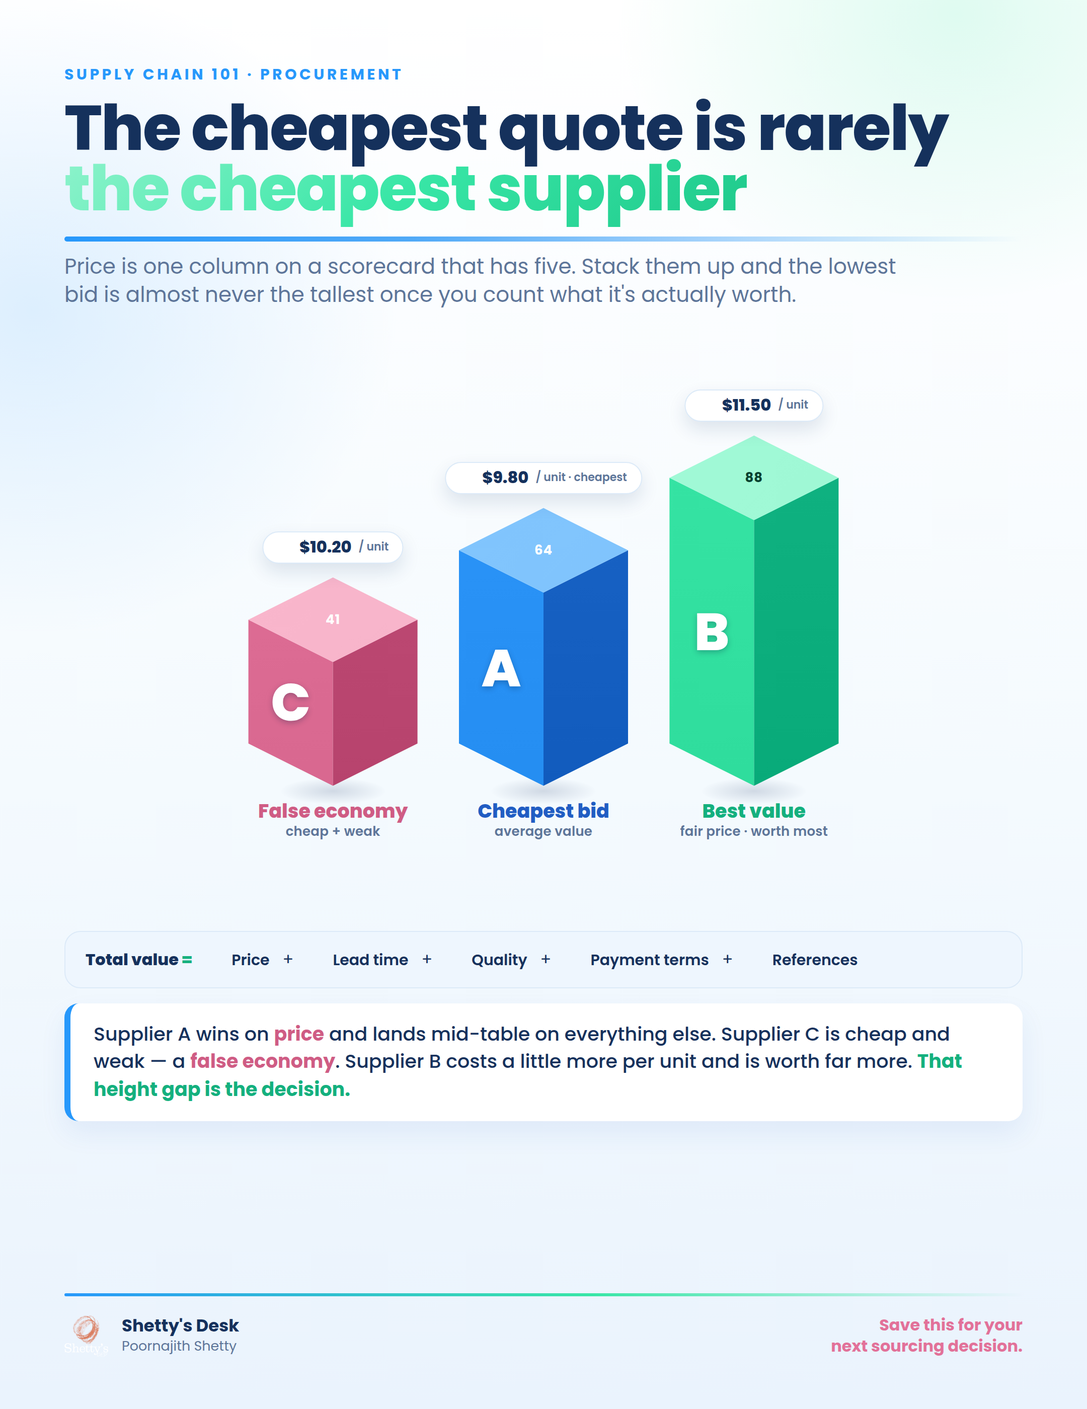
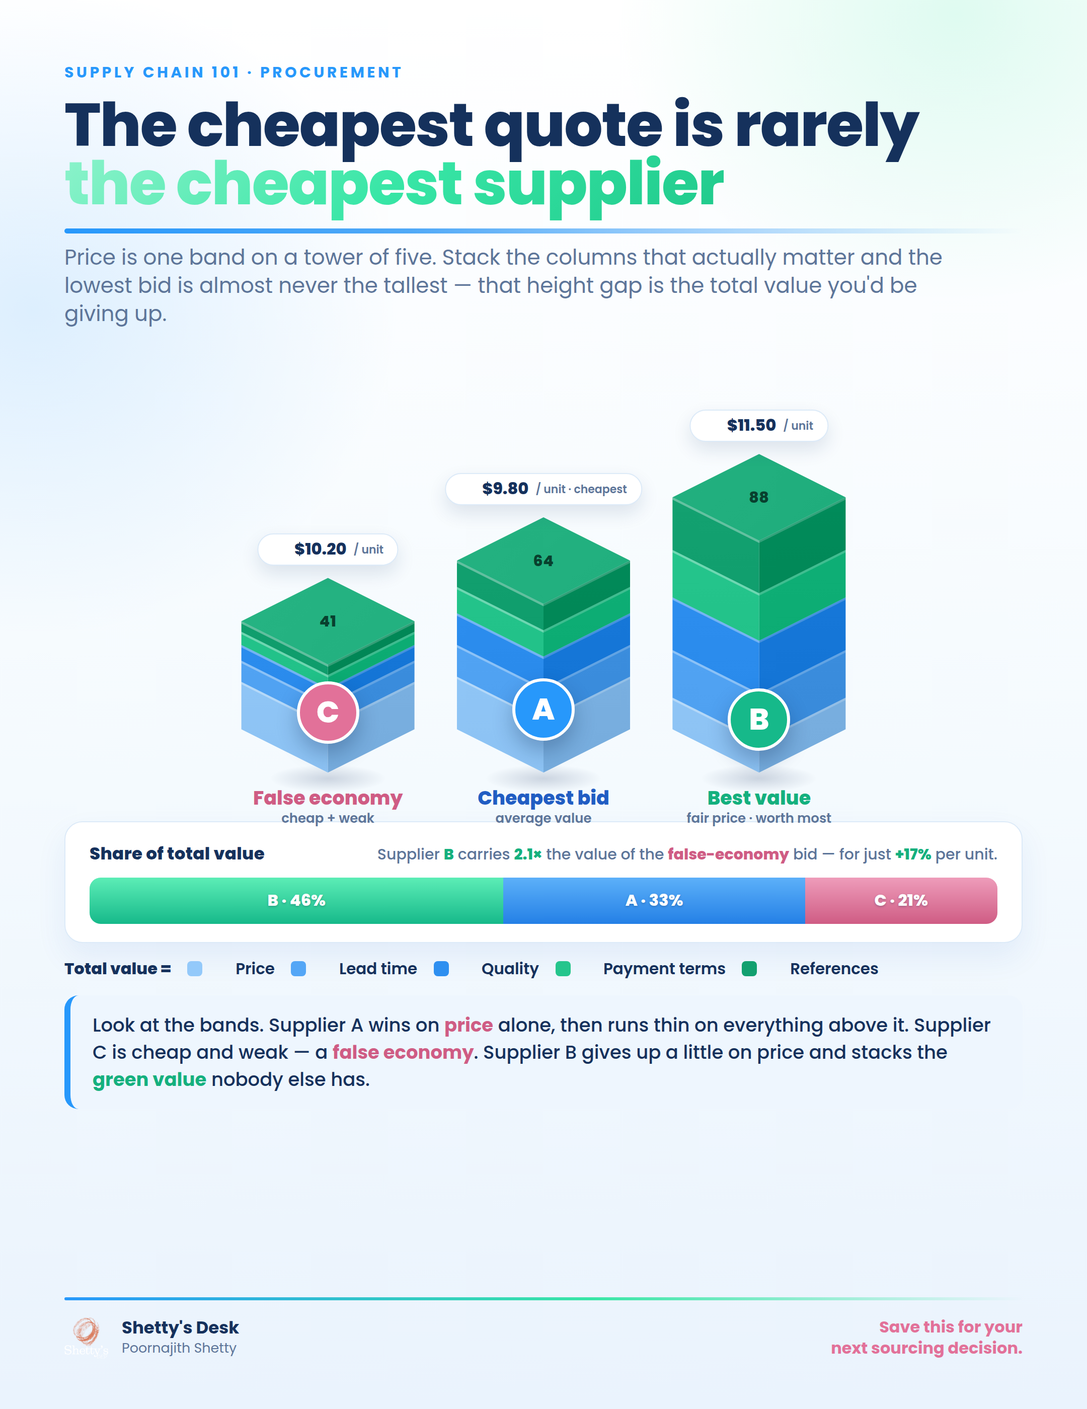
Enrich supplier-quote still: stacked-criterion towers + value-share bar
Push the supplier-quote infographic further on density, 3D and icons,
using elements from the 200-pattern benchmark intelligence:

- Towers become 3D STACKED-criterion towers (benchmark #43): each
  supplier is five stacked bands (Price/Lead time/Quality/Payment
  terms/References) on a blue->green ramp (blue = price/speed,
  green = the quality/relationship value price-shoppers ignore).
  Height still = total value. Hairline light-catch separators make
  the five bands read crisply.
- New ratio element: a "Share of total value" 100% stacked bar
  (benchmark #44, part-to-whole) — B 46% / A 33% / C 21% with a
  "2.1x value for +17% price" callout. This is the ratio-of-total-
  values comparison requested.
- Icons: supplier badges (C/A/B), floating price tags, crown on the
  winner, and a colour-swatch + Lucide-icon legend for the five
  criteria (benchmark #47 isotype).

Copy file Visual Spec documents the multi-element layout and lists the
benchmark elements reserved for later posts (Harvey balls, radar,
slope, tornado).

Claude-Session: https://claude.ai/code/session_01QHwTCVSbkRhv54hCup5HwM

Changed region(s): [[0.062, 0.2796, 0.9306, 0.7768], [0.062, 0.0311, 0.8685, 0.2486], [0.062, 0.9011, 0.9306, 0.9632]]

diff --git a/infographic-setup/renderer/templates/sc101-quote-iso-towers.html b/infographic-setup/renderer/templates/sc101-quote-iso-towers.html
@@ -9,6 +9,8 @@
     --eco:#38E6A6; --eco-text:#14B07E; --mint:#8FF3CC; --coral:#E27199; --coral-deep:#cf5c84;
     --ink:#15315C; --muted:#5D7599; --line:#DCEAF8; --tint:#E2F0FB; --tint2:#EEF6FE;
     --eco-grad:linear-gradient(135deg,#8FF3CC,#38E6A6,#1FC98B);
+    /* 5-criterion ramp: price/speed (blue) -> quality/relationship (green) */
+    --c0:#93C9FA; --c1:#54A6F6; --c2:#2E8FF0; --c3:#25C58C; --c4:#12A06F;
   }
   *{margin:0;padding:0;box-sizing:border-box}
   html,body{width:1080px}
@@ -19,54 +21,63 @@
       radial-gradient(ellipse 52% 34% at 88% 1%, rgba(56,230,166,.16) 0%, transparent 60%),
       radial-gradient(ellipse 58% 40% at 3% 22%, rgba(39,152,251,.14) 0%, transparent 58%),
       linear-gradient(180deg,#FFFFFF 0%,#F4FAFE 56%,#EAF3FD 100%);
-    padding:62px 64px 50px;display:flex;flex-direction:column;
+    padding:60px 64px 48px;display:flex;flex-direction:column;
   }
   .kicker{font-size:15px;font-weight:700;letter-spacing:.18em;text-transform:uppercase;color:var(--azure)}
-  h1{font-size:62px;font-weight:800;line-height:.97;margin-top:13px;letter-spacing:-1px;color:var(--ink)}
+  h1{font-size:60px;font-weight:800;line-height:.97;margin-top:12px;letter-spacing:-1px;color:var(--ink)}
   h1 .g{background:var(--eco-grad);-webkit-background-clip:text;background-clip:text;color:transparent}
-  .rule{height:5px;width:100%;margin:17px 0 11px;border-radius:5px;
+  .rule{height:5px;width:100%;margin:16px 0 10px;border-radius:5px;
     background:linear-gradient(90deg,var(--azure) 0%,var(--sky) 36%,rgba(80,169,247,0) 100%)}
-  .sub{font-size:21px;font-weight:400;color:var(--muted);max-width:860px;line-height:1.32}
+  .sub{font-size:21px;font-weight:400;color:var(--muted);max-width:880px;line-height:1.32}
 
   /* iso scene */
-  .scene{position:relative;width:952px;height:602px;margin-top:8px}
+  .scene{position:relative;width:952px;height:486px;margin-top:2px}
   .shape{position:absolute;inset:0;pointer-events:none}
   .lbl{position:absolute;transform:translate(-50%,-50%);text-align:center;pointer-events:none}
-  .letter{font-size:52px;font-weight:800;color:#fff;line-height:1;text-shadow:0 2px 6px rgba(8,28,60,.28)}
-  .vtop{font-size:13px;font-weight:700;letter-spacing:.04em}
+  .badge{width:62px;height:62px;border-radius:50%;display:flex;align-items:center;justify-content:center;
+    font-size:30px;font-weight:800;color:#fff;border:3px solid #fff;box-shadow:0 10px 20px rgba(12,35,75,.28)}
+  .vtop{font-size:15px;font-weight:800;letter-spacing:.02em}
   .tier{font-size:19px;font-weight:800;line-height:1.05;white-space:nowrap}
-  .tier .s{display:block;font-size:13px;font-weight:600;color:var(--muted);letter-spacing:.01em;margin-top:3px}
+  .tier .s{display:block;font-size:13px;font-weight:600;color:var(--muted);margin-top:3px}
   .ptag{display:flex;align-items:center;gap:7px;background:#fff;border:1.5px solid var(--line);
     border-radius:999px;padding:7px 14px;box-shadow:0 8px 18px rgba(20,50,100,.12);white-space:nowrap}
   .ptag .ic{width:15px;height:15px;background:var(--muted);
     -webkit-mask:url(../assets/icons/tag.svg) center/contain no-repeat;mask:url(../assets/icons/tag.svg) center/contain no-repeat}
   .ptag .pv{font-size:16px;font-weight:800;color:var(--ink);line-height:1}
   .ptag .pu{font-size:11px;font-weight:600;color:var(--muted);line-height:1}
-  .crown{position:absolute;transform:translate(-50%,-50%);width:38px;height:38px;background:#FFC542;
+  .crown{position:absolute;transform:translate(-50%,-50%);width:36px;height:36px;background:#FFC542;
     -webkit-mask:url(../assets/icons/trophy.svg) center/contain no-repeat;mask:url(../assets/icons/trophy.svg) center/contain no-repeat;
     filter:drop-shadow(0 4px 6px rgba(180,120,0,.35))}
-  /* value axis */
-  .axcap{position:absolute;left:0;top:0;writing-mode:vertical-rl;transform:rotate(180deg);
-    font-size:13px;font-weight:700;letter-spacing:.13em;text-transform:uppercase;color:var(--muted)}
 
-  /* legend */
-  .legend{margin-top:8px;display:flex;align-items:center;gap:13px;flex-wrap:wrap;
-    background:var(--tint2);border:1px solid var(--line);border-radius:16px;padding:15px 20px}
+  /* value-share bar (part-to-whole) */
+  .share{margin-top:2px;background:#fff;border:1px solid var(--line);border-radius:18px;
+    box-shadow:0 14px 30px rgba(33,93,195,.08);padding:18px 24px}
+  .share .sh{display:flex;align-items:baseline;justify-content:space-between;margin-bottom:11px}
+  .share .sh .t{font-size:17px;font-weight:800;color:var(--ink);letter-spacing:.01em}
+  .share .sh .r{font-size:15px;font-weight:500;color:var(--muted)}
+  .share .sh .r b{color:var(--eco-text);font-weight:800} .share .sh .r .px{color:var(--coral-deep);font-weight:800}
+  .sbar{display:flex;height:46px;border-radius:11px;overflow:hidden;box-shadow:inset 0 0 0 1px rgba(20,50,100,.06)}
+  .sbar span{display:flex;align-items:center;justify-content:center;color:#fff;font-size:16px;font-weight:800;
+    text-shadow:0 1px 2px rgba(8,28,60,.25)}
+  .sbar .b{background:linear-gradient(180deg,#5CEDB6,#16B98A)}
+  .sbar .a{background:linear-gradient(180deg,#5CB0F9,#2480E6)}
+  .sbar .c{background:linear-gradient(180deg,#EE9CBA,#cf5c84)}
+
+  /* criterion legend */
+  .legend{margin-top:13px;display:flex;align-items:center;gap:16px;flex-wrap:wrap}
   .legend .lead{font-size:16px;font-weight:800;color:var(--ink)}
-  .legend .lead b{color:var(--eco-text)}
-  .chip{display:flex;align-items:center;gap:8px;font-size:15px;font-weight:600;color:var(--ink)}
-  .chip .ic{width:18px;height:18px;background:var(--royal);-webkit-mask-size:contain;mask-size:contain;
+  .chip{display:flex;align-items:center;gap:8px;font-size:15.5px;font-weight:600;color:var(--ink)}
+  .chip .sw{width:15px;height:15px;border-radius:4px}
+  .chip .ic{width:17px;height:17px;background:var(--royal);-webkit-mask-size:contain;mask-size:contain;
     -webkit-mask-repeat:no-repeat;mask-repeat:no-repeat;-webkit-mask-position:center;mask-position:center}
-  .chip .d{color:var(--line);font-weight:700}
 
-  .insight{margin-top:15px;background:#fff;border-left:6px solid var(--azure);border-radius:14px;
-    box-shadow:0 12px 26px rgba(33,93,195,.08);padding:17px 23px;font-size:19px;font-weight:500;color:var(--ink);line-height:1.46}
+  .insight{margin-top:14px;background:var(--tint2);border-left:6px solid var(--azure);border-radius:14px;
+    padding:16px 22px;font-size:18.5px;font-weight:500;color:var(--ink);line-height:1.46}
   .insight b{color:var(--eco-text);font-weight:700} .insight .px{color:var(--coral-deep);font-weight:700}
 
-  /* footer (fixed, clean rule ABOVE content) */
   .footrule{margin-top:auto;height:3px;border-radius:3px;
     background:linear-gradient(90deg,var(--azure),var(--eco) 55%,rgba(56,230,166,0) 100%)}
-  .foot{display:flex;align-items:center;justify-content:space-between;padding-top:18px}
+  .foot{display:flex;align-items:center;justify-content:space-between;padding-top:16px}
   .who{display:flex;align-items:center;gap:13px}
   .who img{width:44px;height:44px;border-radius:10px}
   .who .nm{font-size:17px;font-weight:700;color:var(--ink);line-height:1.15}
@@ -79,20 +90,30 @@
   <div class="kicker">Supply Chain 101 · Procurement</div>
   <h1>The cheapest quote is rarely<br><span class="g">the cheapest supplier</span></h1>
   <div class="rule"></div>
-  <div class="sub">Price is one column on a scorecard that has five. Stack them up and the lowest bid is almost never the tallest once you count what it's actually worth.</div>
+  <div class="sub">Price is one band on a tower of five. Stack the columns that actually matter and the lowest bid is almost never the tallest — that height gap is the total value you'd be giving up.</div>
 
   <div class="scene" id="scene"></div>
 
-  <div class="legend">
-    <span class="lead">Total value <b>=</b></span>
-    <span class="chip"><span class="ic" style="-webkit-mask-image:url(../assets/icons/tag.svg);mask-image:url(../assets/icons/tag.svg)"></span>Price</span><span class="d">+</span>
-    <span class="chip"><span class="ic" style="-webkit-mask-image:url(../assets/icons/clock.svg);mask-image:url(../assets/icons/clock.svg)"></span>Lead time</span><span class="d">+</span>
-    <span class="chip"><span class="ic" style="-webkit-mask-image:url(../assets/icons/badge-check.svg);mask-image:url(../assets/icons/badge-check.svg)"></span>Quality</span><span class="d">+</span>
-    <span class="chip"><span class="ic" style="-webkit-mask-image:url(../assets/icons/shield-check.svg);mask-image:url(../assets/icons/shield-check.svg)"></span>Payment terms</span><span class="d">+</span>
-    <span class="chip"><span class="ic" style="-webkit-mask-image:url(../assets/icons/message-circle.svg);mask-image:url(../assets/icons/message-circle.svg)"></span>References</span>
+  <div class="share">
+    <div class="sh"><span class="t">Share of total value</span>
+      <span class="r">Supplier <b>B</b> carries <b>2.1×</b> the value of the <span class="px">false-economy</span> bid — for just <b>+17%</b> per unit.</span></div>
+    <div class="sbar">
+      <span class="b" style="width:45.6%">B&nbsp;·&nbsp;46%</span>
+      <span class="a" style="width:33.2%">A&nbsp;·&nbsp;33%</span>
+      <span class="c" style="width:21.2%">C&nbsp;·&nbsp;21%</span>
+    </div>
   </div>
 
-  <div class="insight">Supplier A wins on <span class="px">price</span> and lands mid-table on everything else. Supplier C is cheap and weak — a <span class="px">false economy</span>. Supplier B costs a little more per unit and is worth far more. <b>That height gap is the decision.</b></div>
+  <div class="legend">
+    <span class="lead">Total value =</span>
+    <span class="chip"><span class="sw" style="background:var(--c0)"></span><span class="ic" style="-webkit-mask-image:url(../assets/icons/tag.svg);mask-image:url(../assets/icons/tag.svg)"></span>Price</span>
+    <span class="chip"><span class="sw" style="background:var(--c1)"></span><span class="ic" style="-webkit-mask-image:url(../assets/icons/clock.svg);mask-image:url(../assets/icons/clock.svg)"></span>Lead time</span>
+    <span class="chip"><span class="sw" style="background:var(--c2)"></span><span class="ic" style="-webkit-mask-image:url(../assets/icons/badge-check.svg);mask-image:url(../assets/icons/badge-check.svg)"></span>Quality</span>
+    <span class="chip"><span class="sw" style="background:var(--c3)"></span><span class="ic" style="-webkit-mask-image:url(../assets/icons/shield-check.svg);mask-image:url(../assets/icons/shield-check.svg)"></span>Payment terms</span>
+    <span class="chip"><span class="sw" style="background:var(--c4)"></span><span class="ic" style="-webkit-mask-image:url(../assets/icons/message-circle.svg);mask-image:url(../assets/icons/message-circle.svg)"></span>References</span>
+  </div>
+
+  <div class="insight">Look at the bands. Supplier A wins on <span class="px">price</span> alone, then runs thin on everything above it. Supplier C is cheap and weak — a <span class="px">false economy</span>. Supplier B gives up a little on price and stacks the <b>green value</b> nobody else has.</div>
 
   <div class="footrule"></div>
   <div class="foot">
@@ -103,85 +124,85 @@
 
 <script>
 (function(){
-  const scene = document.getElementById('scene');
-  const W = scene.clientWidth, H = scene.clientHeight;
-  // iso projection (2:1 dimetric)
-  const a = 126, b = 63;               // tile half-width / half-height
-  const OX = W/2, OY = 232;             // screen origin for world (0,0)
-  const iso = (u,v)=>[OX+(u-v)*a, OY+(u+v)*b];
+  const scene=document.getElementById('scene');
+  const W=scene.clientWidth;
+  const a=126,b=63, OX=W/2, OY=205;
+  const iso=(u,v)=>[OX+(u-v)*a, OY+(u+v)*b];
+  const SUM=3.05, fa=86, fb=fa/2, PXV=2.62;
 
-  function poly(pts, bg, z){
-    const d=document.createElement('div'); d.className='shape';
-    d.style.clipPath='polygon('+pts.map(p=>p[0].toFixed(1)+'px '+p[1].toFixed(1)+'px').join(',')+')';
-    d.style.background=bg; if(z!=null) d.style.zIndex=z; scene.appendChild(d); return d;
-  }
-  function place(el, x, y, z){ el.style.left=x+'px'; el.style.top=y+'px'; if(z!=null) el.style.zIndex=z; scene.appendChild(el); }
-
-  // base ground line: all towers share iso depth (u+v const) -> a horizontal screen row
-  const SUM = 3.05;                     // u+v  (depth)
-  const fa = 84, fb = fa/2;             // tower footprint half-extents (screen px)
-  // towers: diff = u - v  controls horizontal position
-  const towers = [
-    {id:'C', diff:-1.66, val:41,  color:['#F3B0C6','#E27199','#C24E78'], price:['$10.20','/ unit'], tier:'False economy', sub:'cheap + weak', crown:false, dark:false},
-    {id:'A', diff: 0.00, val:64,  color:['#7CC0FA','#2E97FB','#1C66C8'], price:['$9.80','/ unit · cheapest'], tier:'Cheapest bid', sub:'average value', crown:false, dark:false},
-    {id:'B', diff: 1.66, val:88,  color:['#9CF5D2','#38E6A6','#13B584'], price:['$11.50','/ unit'], tier:'Best value', sub:'fair price · worth most', crown:true, dark:true},
+  // criterion colours (must match legend ramp)
+  const cc=['#93C9FA','#54A6F6','#2E8FF0','#25C58C','#12A06F'];
+  const towers=[
+    {id:'C', diff:-1.70, ring:'#E27199', tier:'False economy', sub:'cheap + weak',  price:['$10.20','/ unit'],          scores:[18,8,6,5,4]},
+    {id:'A', diff: 0.00, ring:'#2798FB', tier:'Cheapest bid',  sub:'average value',  price:['$9.80','/ unit · cheapest'], scores:[20,12,12,10,10]},
+    {id:'B', diff: 1.70, ring:'#16B98A', tier:'Best value',    sub:'fair price · worth most', price:['$11.50','/ unit'], scores:[12,18,20,18,20], crown:true},
   ];
-  const PXV = 3.0;                      // px height per value point
 
-  // subtle ground-contact shadow tucked at each tower's base vertex
-  towers.forEach(t=>{
-    const [cx,cy]=iso((SUM+t.diff)/2,(SUM-t.diff)/2);
-    const sh=document.createElement('div'); sh.className='shape';
-    sh.style.inset='auto';
-    sh.style.left=(cx-fa*0.62)+'px'; sh.style.top=(cy+fb-8)+'px';
-    sh.style.width=(fa*1.24)+'px'; sh.style.height=(fb*0.62)+'px';
-    sh.style.borderRadius='50%';
-    sh.style.background='radial-gradient(ellipse at center, rgba(20,45,95,.16), rgba(20,45,95,0) 72%)';
-    sh.style.zIndex=0; scene.appendChild(sh);
-  });
+  function poly(pts,bg,z){const d=document.createElement('div');d.className='shape';
+    d.style.clipPath='polygon('+pts.map(p=>p[0].toFixed(1)+'px '+p[1].toFixed(1)+'px').join(',')+')';
+    d.style.background=bg; if(z!=null)d.style.zIndex=z; scene.appendChild(d);}
+  function place(el,x,y,z){el.style.left=x+'px';el.style.top=y+'px';if(z!=null)el.style.zIndex=z;scene.appendChild(el);}
+  function shade(hex,amt){const n=parseInt(hex.slice(1),16);let r=(n>>16)+amt,g=((n>>8)&255)+amt,bb=(n&255)+amt;
+    r=Math.max(0,Math.min(255,r));g=Math.max(0,Math.min(255,g));bb=Math.max(0,Math.min(255,bb));
+    return '#'+((1<<24)+(r<<16)+(g<<8)+bb).toString(16).slice(1);}
 
-  // towers back-to-front (smaller cy = farther back). same depth here, so left-to-right is fine
-  towers.forEach((t,i)=>{
+  towers.forEach((t,ti)=>{
     const u=(SUM+t.diff)/2, v=(SUM-t.diff)/2;
     const [cx,cy]=iso(u,v);
-    const Hh = t.val*PXV;
-    const zb = 10+i*10;
-    // base diamond corners
-    const Tb=[cx,cy-fb], Rb=[cx+fa,cy], Bb=[cx,cy+fb], Lb=[cx-fa,cy];
-    // top diamond (raised)
-    const Tt=[cx,cy-fb-Hh], Rt=[cx+fa,cy-Hh], Bt=[cx,cy+fb-Hh], Lt=[cx-fa,cy-Hh];
-    // walls + top
-    poly([Lb,Bb,Bt,Lt], 'linear-gradient(180deg,'+t.color[1]+','+shade(t.color[1],-12)+')', zb);   // left (front-left)
-    poly([Bb,Rb,Rt,Bt], 'linear-gradient(180deg,'+t.color[2]+','+shade(t.color[2],-14)+')', zb+1);  // right (front-right)
-    poly([Tt,Rt,Bt,Lt], 'linear-gradient(135deg,'+shade(t.color[0],8)+','+t.color[0]+')', zb+2);     // top
+    const total=t.scores.reduce((s,x)=>s+x,0);
+    const Htot=total*PXV;
+    const zbase=20+ti*40;
 
-    // edge highlight on the top near edge (subtle)
-    // letter on the left wall
-    const lw=document.createElement('div'); lw.className='lbl';
-    lw.innerHTML='<div class="letter">'+t.id+'</div>';
-    place(lw, cx-fa*0.5, cy+fb*0.5-Hh*0.5, zb+3);
-    // value number on the top face
-    const vt=document.createElement('div'); vt.className='lbl';
-    vt.innerHTML='<div class="vtop" style="color:'+(t.dark?'#05402F':'#fff')+'">'+t.val+'</div>';
-    place(vt, cx, cy-Hh, zb+4);
-    // price tag above
-    const pt=document.createElement('div'); pt.className='lbl';
+    // ground-contact shadow
+    const sh=document.createElement('div');sh.className='shape';sh.style.inset='auto';
+    sh.style.left=(cx-fa*0.66)+'px';sh.style.top=(cy+fb-8)+'px';
+    sh.style.width=(fa*1.32)+'px';sh.style.height=(fb*0.64)+'px';sh.style.borderRadius='50%';
+    sh.style.background='radial-gradient(ellipse at center, rgba(18,42,90,.18), rgba(18,42,90,0) 72%)';
+    sh.style.zIndex=zbase-5;scene.appendChild(sh);
+
+    // stacked segments bottom -> top
+    let zacc=0;
+    t.scores.forEach((sc,si)=>{
+      const h=sc*PXV;
+      const yB=cy-zacc, yT=cy-(zacc+h);
+      const Lb=[cx-fa,yB],Bb=[cx,yB+fb],Lt=[cx-fa,yT],Bt=[cx,yT+fb],Rb=[cx+fa,yB],Rt=[cx+fa,yT],Tt=[cx,yT-fb];
+      const base=cc[si];
+      // left wall (lighter face) + right wall (darker face)
+      poly([Lb,Bb,Bt,Lt],'linear-gradient(180deg,'+shade(base,6)+','+shade(base,-8)+')', zbase+si*3);
+      poly([Bb,Rb,Rt,Bt],'linear-gradient(180deg,'+shade(base,-16)+','+shade(base,-30)+')', zbase+si*3+1);
+      // hairline light-catch along the top front edges (crisp band separation)
+      const t1=2.4;
+      poly([Lt,Bt,[Bt[0],Bt[1]+t1],[Lt[0],Lt[1]+t1]], 'rgba(255,255,255,.34)', zbase+si*3+2);
+      poly([Bt,Rt,[Rt[0],Rt[1]+t1],[Bt[0],Bt[1]+t1]], 'rgba(255,255,255,.20)', zbase+si*3+2);
+      // top cap on the final segment
+      if(si===t.scores.length-1)
+        poly([Tt,Rt,Bt,Lt],'linear-gradient(135deg,'+shade(base,24)+','+shade(base,8)+')', zbase+si*3+2);
+      zacc+=h;
+    });
+
+    // supplier badge (flat, pinned to front of the price band)
+    const bd=document.createElement('div');bd.className='lbl';
+    bd.innerHTML='<div class="badge" style="background:'+t.ring+'">'+t.id+'</div>';
+    place(bd, cx, cy+fb*0.15 - t.scores[0]*PXV*0.5, zbase+30);
+
+    // total value on the top cap
+    const vt=document.createElement('div');vt.className='lbl';
+    vt.innerHTML='<div class="vtop" style="color:#08402E">'+total+'</div>';
+    place(vt, cx, cy-Htot, zbase+31);
+
+    // price tag floating above
+    const pt=document.createElement('div');pt.className='lbl';
     pt.innerHTML='<div class="ptag"><span class="ic"></span><span class="pv">'+t.price[0]+'</span><span class="pu">'+t.price[1]+'</span></div>';
-    place(pt, cx, cy-fb-Hh-30, zb+5);
-    // crown
-    if(t.crown){ const cr=document.createElement('div'); cr.className='crown'; place(cr, cx, cy-fb-Hh-76, zb+6); }
-    // tier label below base
-    const tl=document.createElement('div'); tl.className='lbl';
-    const col = t.id==='B'?'var(--eco-text)': t.id==='C'?'var(--coral-deep)':'var(--deep)';
-    tl.innerHTML='<div class="tier" style="color:'+col+'">'+t.tier+'<span class="s">'+t.sub+'</span></div>';
-    place(tl, cx, cy+fb+34, zb+3);
-  });
+    place(pt, cx, cy-fb-Htot-28, zbase+32);
 
-  function shade(hex,amt){ // lighten/darken hex by amt (-/+)
-    const n=parseInt(hex.slice(1),16); let r=(n>>16)+amt,g=((n>>8)&255)+amt,bb=(n&255)+amt;
-    r=Math.max(0,Math.min(255,r));g=Math.max(0,Math.min(255,g));bb=Math.max(0,Math.min(255,bb));
-    return '#'+((1<<24)+(r<<16)+(g<<8)+bb).toString(16).slice(1);
-  }
+    if(t.crown){const cr=document.createElement('div');cr.className='crown';place(cr,cx,cy-fb-Htot-74,zbase+33);}
+
+    // tier label below base
+    const tl=document.createElement('div');tl.className='lbl';
+    const col=t.id==='B'?'var(--eco-text)':t.id==='C'?'var(--coral-deep)':'var(--deep)';
+    tl.innerHTML='<div class="tier" style="color:'+col+'">'+t.tier+'<span class="s">'+t.sub+'</span></div>';
+    place(tl, cx, cy+fb+34, zbase+30);
+  });
 })();
 </script>
 </body>

diff --git a/infographic-setup/data/2026-W26/compare-supplier-quotes/101-copy.md b/infographic-setup/data/2026-W26/compare-supplier-quotes/101-copy.md
@@ -55,12 +55,16 @@ Follow Poornajith Shetty and Shetty's Desk for more supply chain insights, and s
 ---
 
 ## Visual Spec (layout-select)
-- **Shape of the idea:** one quote has many columns; price is only one of them, and total value is the sum.
-- **Selected layout:** isometric 3D "value towers" — three supplier towers whose **height = total value**, with a floating **unit-price tag** on each. The argument is the mismatch between the price tags and the tower heights: the cheapest bid (A) is mid-height, the other cheap bid (C) is the shortest (false economy), and the slightly pricier B is the tallest (best value). A bottom legend spells out the five columns that make up "total value". Chosen over the flat 2×2 to add genuine depth (height as the third axis) and to read instantly.
-- **Feasibility:** Medium (JS-computed clip-path isometric) · **Brand:** azure (A) + eco (B, crowned) + coral (C) on white, real 3D extrusion, no tool mark (101).
+- **Shape of the idea:** one quote has five columns; price is only one of them, and total value is the sum — so compare the *ratio* of total values, not the price tags.
+- **Selected layout (multi-element, from the 200-pattern benchmark):**
+  - **Hero — isometric 3D stacked-criterion towers** (benchmark #43 stacked column, in real iso depth). Each supplier is a tower of five stacked bands (Price → Lead time → Quality → Payment terms → References) on a blue→green ramp (blue = price/speed, green = the quality/relationship value price-shoppers ignore). **Height = total value.** Floating **unit-price tags**, **supplier badges** (C coral / A azure / B eco-crowned), total-value number on each cap.
+  - **Ratio element — "Share of total value" 100% bar** (benchmark #44 / part-to-whole). Normalised shares B 46% / A 33% / C 21% with the **2.1× value · +17% price** callout — the explicit ratio comparison requested.
+  - **Icon legend** (benchmark #47 isotype): the five criteria as colour swatch + Lucide icon.
+- **Feasibility:** Medium (JS-computed clip-path isometric) · **Brand:** azure (A) + eco (B, crowned) + coral (C); blue→green criterion ramp; real 3D extrusion + hairline band separators; no tool mark (101).
+- **Reserved benchmark elements for later posts:** Harvey balls (#106) for a criterion scorecard, radar/spider (#74) for a supplier strength profile, slope (#71) for rank-shift, tornado (#109) for sensitivity.
 
 ## Code-render visual (primary)
-`renderer/templates/sc101-quote-iso-towers.html` → `renderer/out/sc101-quote-iso-towers.png` → `visual.png`. A=cheapest/average value (azure), C=false economy (coral, shortest), B=best value (eco, tallest + crown); price tags show A cheapest, B priciest. The ChatGPT Image 2 prompt below is the illustration fallback. (`sc101-compare-quotes-2x2.html` is the prior flat 2×2 version, kept for reference.)
+`renderer/templates/sc101-quote-iso-towers.html` → `renderer/out/sc101-quote-iso-towers.png` → `visual.png`. Stacked-criterion towers + value-share bar + icon legend; A=cheapest/average value, C=false economy (shortest), B=best value (tallest, crowned). The ChatGPT Image 2 prompt below is the illustration fallback. (`sc101-compare-quotes-2x2.html` flat 2×2 and the single-block tower version are kept in git history for reference.)
 
 ## ChatGPT Image 2 Prompt
 
